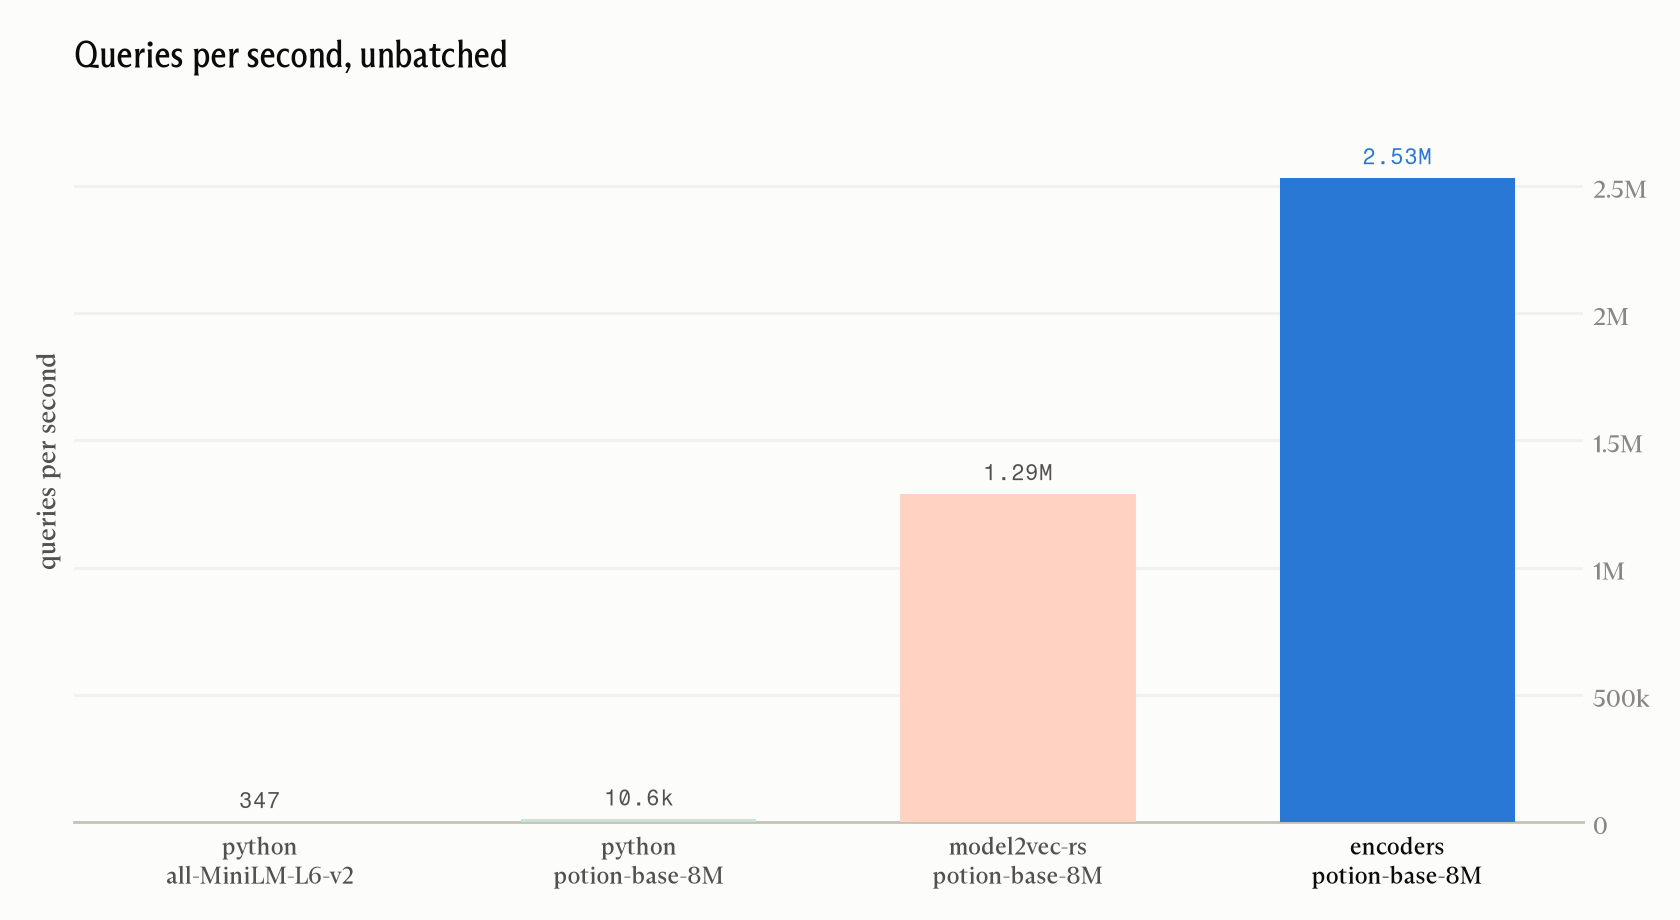
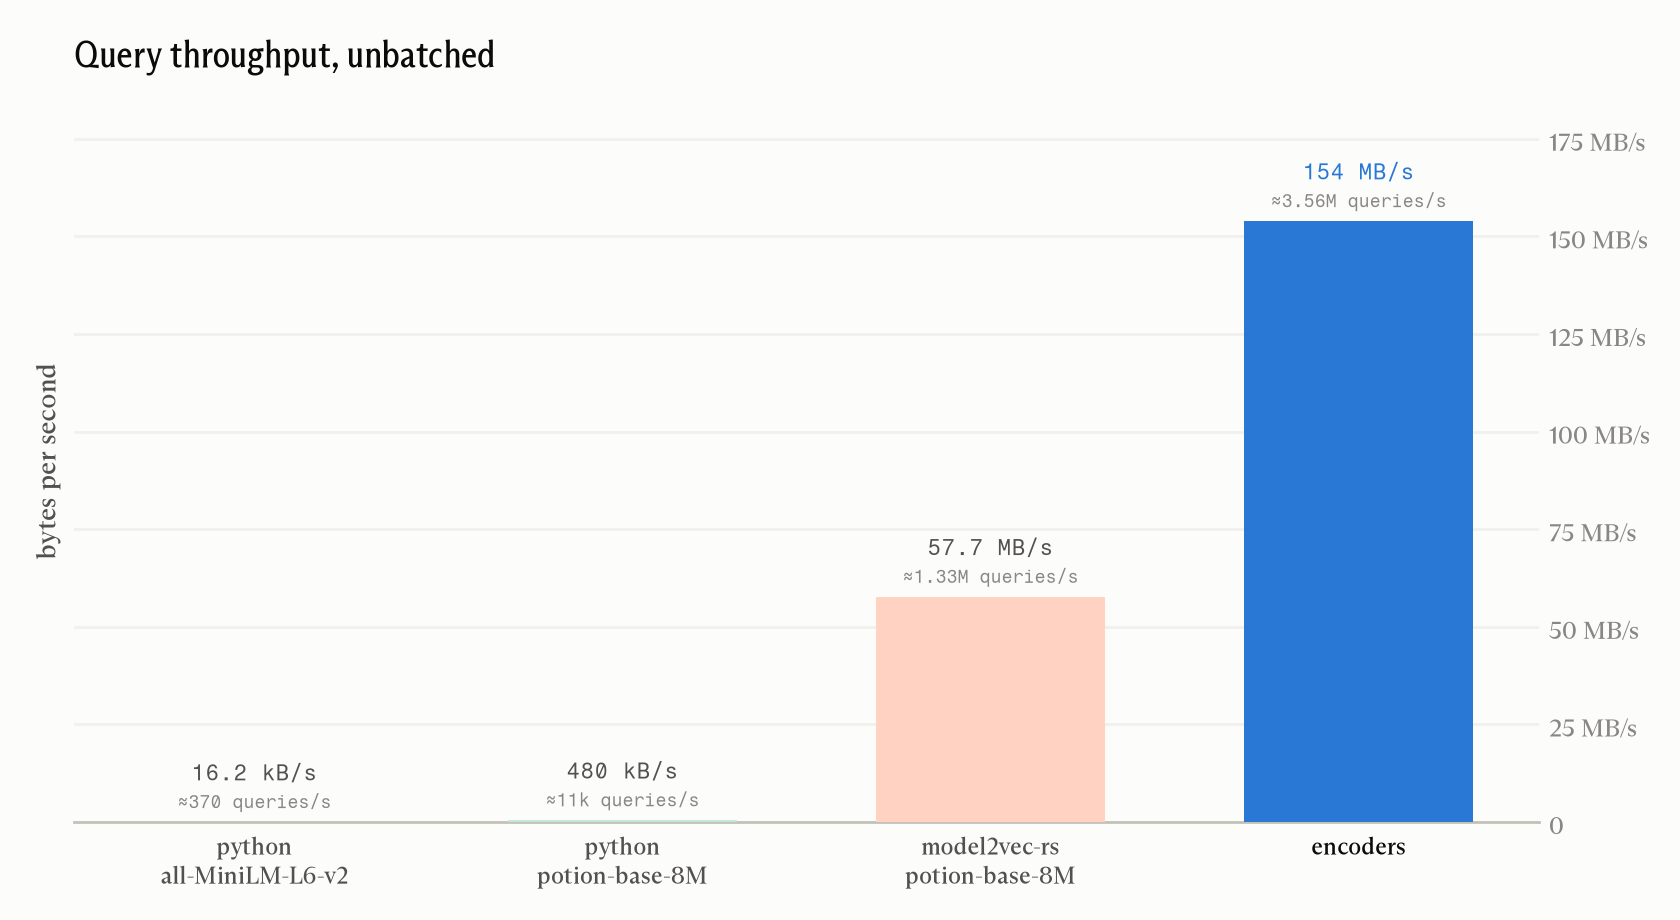
cleanup & rerender benchmarks

diff --git a/bench/py/charts.py b/bench/py/charts.py
@@ -4,7 +4,7 @@
     uv run charts.py --no-bench   # re-render from the last run
     uv run charts.py --no-rust    # only the python QPS bench, then render
 
-Writes `.github/throughput.png` (bytes/s over gooaq text, log scale),
+Writes `.github/throughput.png` (bytes/s over gooaq text),
 `.github/qps.png` (gooaq questions, one per call) and `.github/corpus.png`
 (gooaq answers, one batch). The last two lead with bytes/s and show an
 approximate queries/s or documents/s beneath each value: bytes/s divided by
@@ -44,8 +44,8 @@ THROUGHPUT_LABELS = {
     "encoders": "encoders",
     "encoders-rayon": "encoders\n(rayon)",
     "tokenize": "HF tokenizers\nWordPiece only",
-    "sha256_soft": "SHA-256\nsoftware backend",
-    "gzip": "gzip\nflate2",
+    "sha256_soft": "SHA-256\nsha2 crate",
+    "gzip": "gzip\nflate2 crate",
     "tantivy_index": "tantivy index\nin-memory",
 }
 # encoders is built with model2vec-rs's model (potion-base-8M, float32) here.
@@ -366,9 +366,9 @@ def main():
         throughput,
         THROUGHPUT_LABELS,
         "Throughput",
-        "bytes per second, log scale",
+        "bytes per second",
         OUT / "throughput.png",
-        log=True,
+        log=False,
         unit="B/s",
     )
 

diff --git a/bench/benches/throughput.rs b/bench/benches/throughput.rs
@@ -98,7 +98,7 @@ fn bench_throughput(c: &mut Criterion) {
         });
     }
 
-    group.bench_function("sha256_soft", |b| {
+    group.bench_function("sha256", |b| {
         b.iter(|| {
             for s in sentences {
                 black_box(Sha256::digest(black_box(s).as_bytes()));

diff --git a/readme.md b/readme.md
@@ -269,13 +269,13 @@ Otherwise, check out the [`ese-build`](./ese-build) and [`ese`](./ese) crates, w
 
 The idea behind encoders (and the crate that underpins it, [`ese`](./ese)) is simple: static embedding models are essentially lookup tables from token IDs to weights. Why not just resolve the tokens to their weights with a compile-time map? So, that's exactly what it does—with a lot of other performance-oriented tricks to boot!
 
-The following chart shows unbatched throughput on the query half of the GooAQ dataset, approximating query-side search workloads:
+The first chart here shows unbatched throughput on the question half of the GooAQ dataset (~43 bytes per query), one query per call, approximating query-side search workloads:
 
-![Chart comparing queries per second, one query per call, on encoders vs. other methods to embed text](https://raw.githubusercontent.com/flowercomputers/encoders/refs/heads/master/.github/qps.png)
+![Chart comparing throughput on queries, one per call, in bytes and approximate queries per second, on encoders vs. other methods to embed text](https://raw.githubusercontent.com/flowercomputers/encoders/refs/heads/master/.github/qps.png)
 
-The following chart shows unbatched throughput on documents (generally pretty long inputs) in the GooAQ dataset, approximating index-side workloads:
+The second shows batched throughput on the answer half (generally much longer inputs, ~253 bytes a piece), approximating indexing workloads:
 
-![Chart comparing documents per second, embedded in batches, on encoders vs. other methods to embed text](https://raw.githubusercontent.com/flowercomputers/encoders/refs/heads/master/.github/corpus.png)
+![Chart comparing throughput on documents embedded in batches, in bytes and approximate documents per second, on encoders vs. other methods to embed text](https://raw.githubusercontent.com/flowercomputers/encoders/refs/heads/master/.github/corpus.png)
 
 **Build time.** [`ese-build`](./ese-build) downloads the model, reads how it expects text to be tokenized and pooled from the model's own files, quantizes the weights, and writes them out as a perfect-hash table keyed by vocabulary entry. That table is compiled into your binary, so there is nothing to load or initialize at runtime.
 
